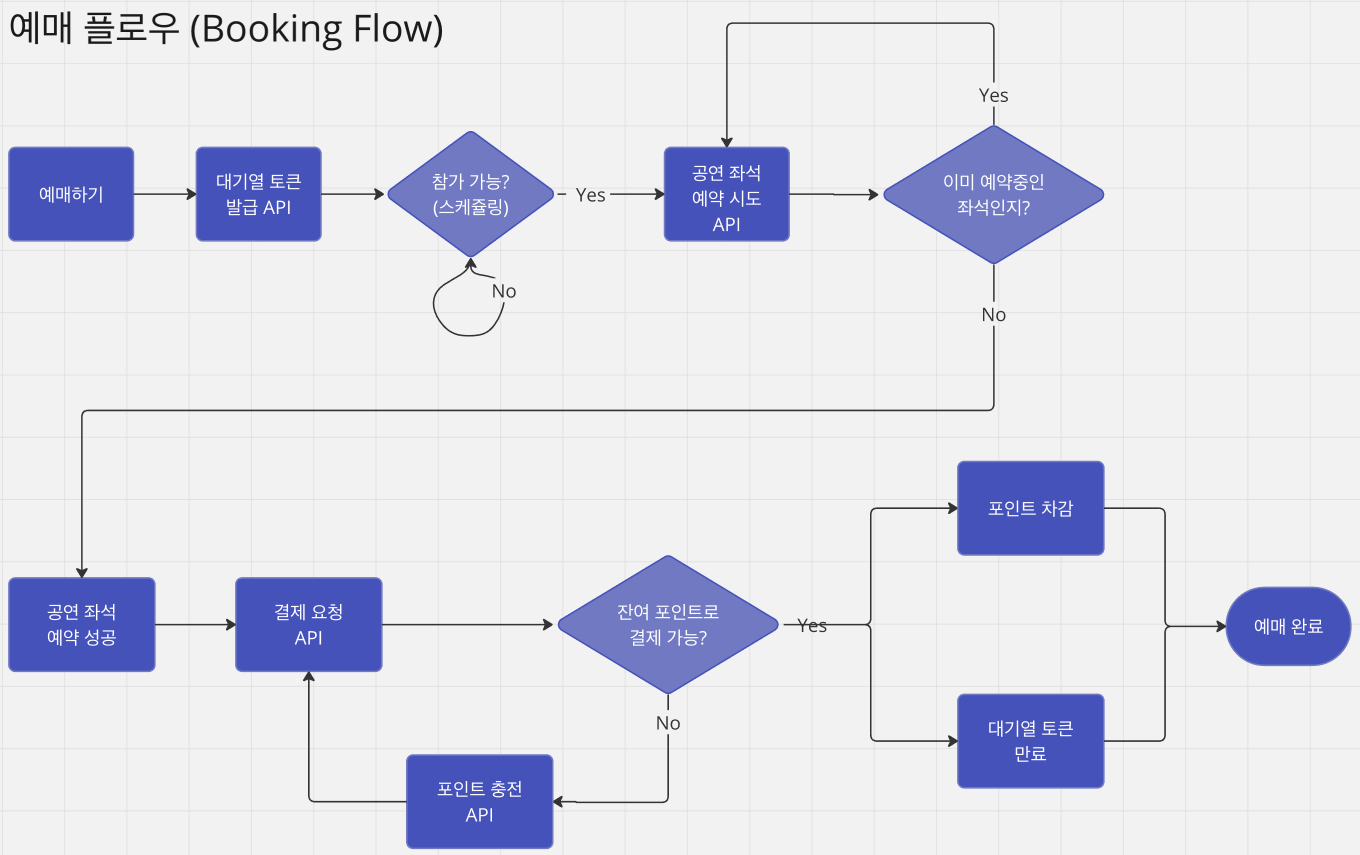
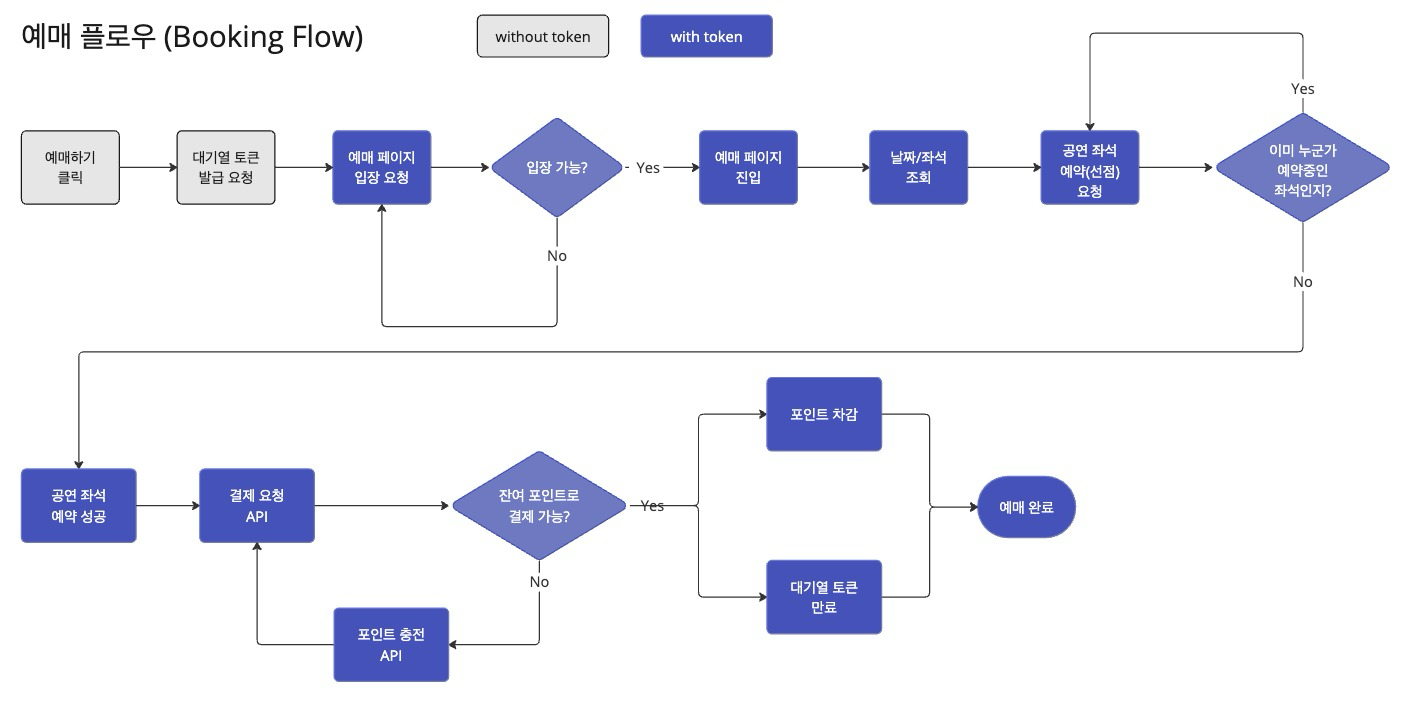
doc: 예매 플로우차트 수정 및 사용자 플로우 추가

diff --git a/doc/2_UML.md b/doc/2_UML.md
@@ -8,6 +8,12 @@
   <img src="../assets/doc/uml/img.png" alt="img" style="zoom: 70%"/>
 </div>
 
+## 예매 유저 흐름도
+
+<div style="text-align: center;">
+  <img src="../assets/doc/uml/img-1.png" alt="img_1" style="zoom: 70%"/>
+</div>
+
 # 2. State Diagram
 
 ## 예약 상태 다이어그램
